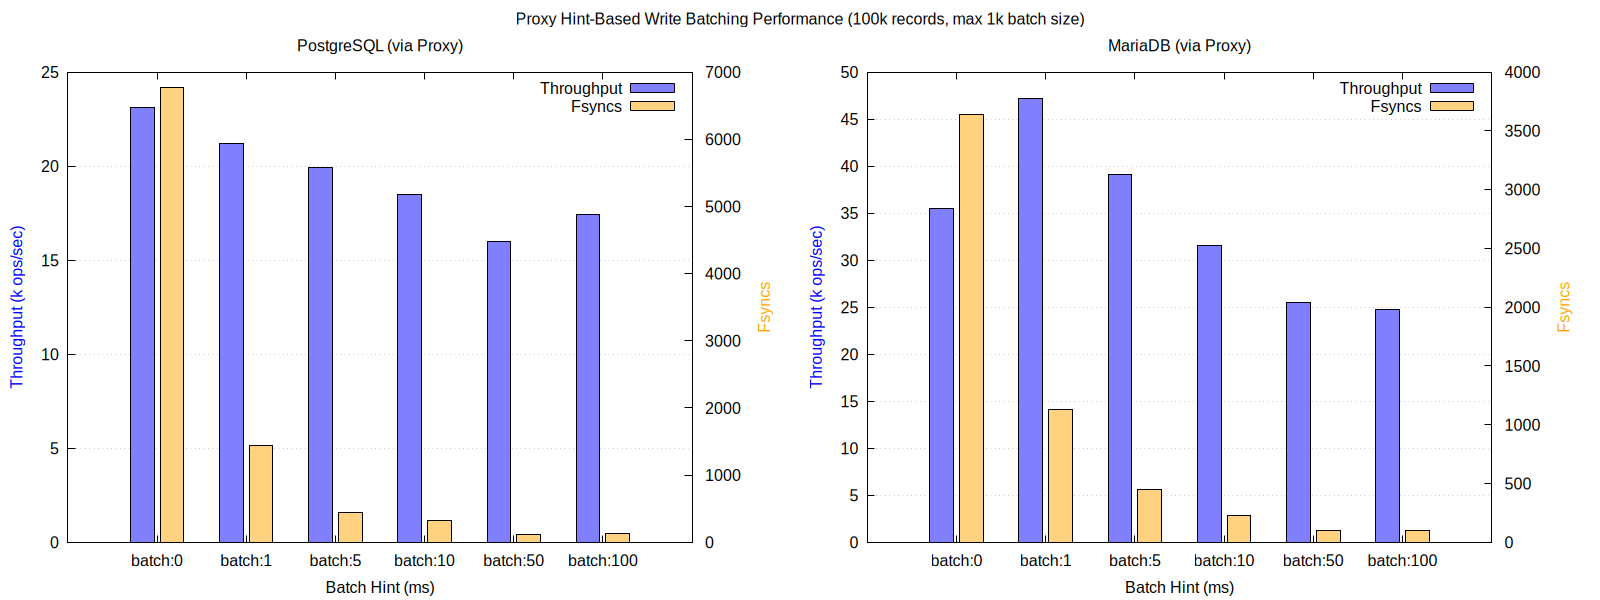
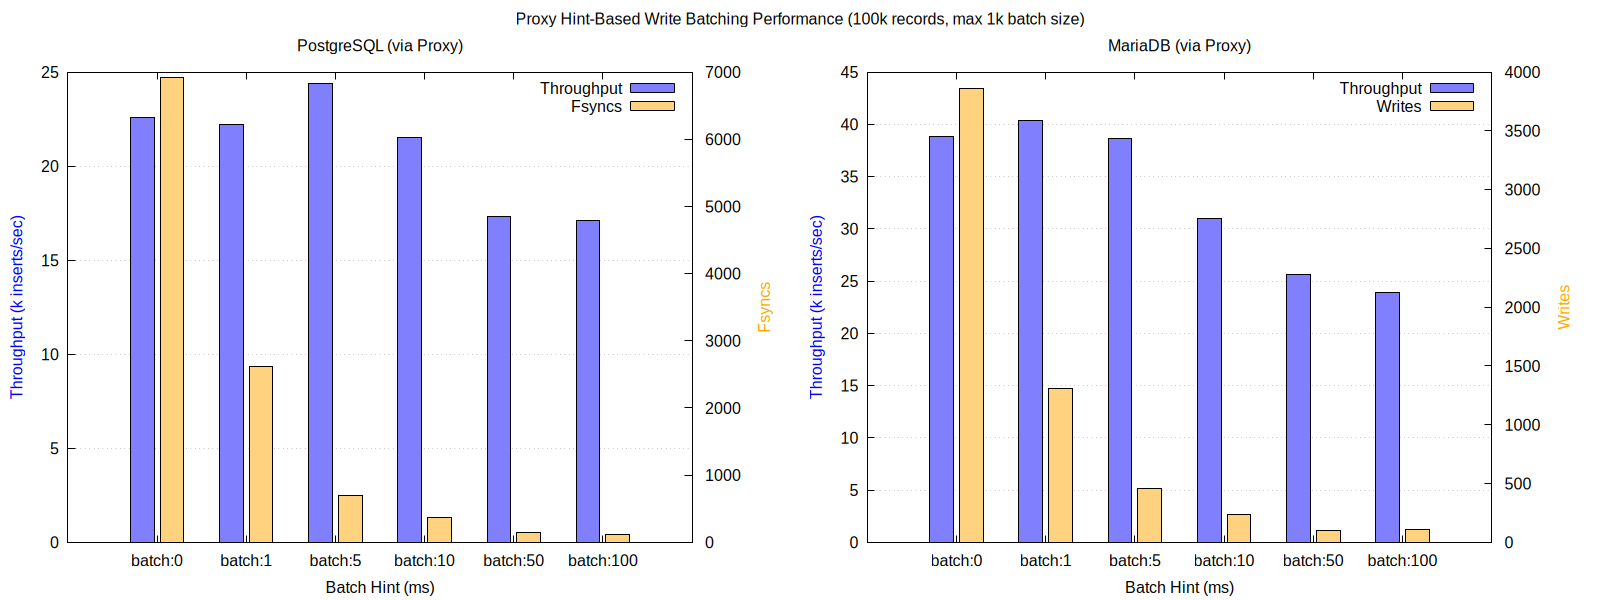
update

diff --git a/benchmarks/proxybatch/main.go b/benchmarks/proxybatch/main.go
@@ -291,12 +291,12 @@ unset title
 set title "MariaDB (via Proxy)"
 set xlabel "Batch Hint (ms)"
 set ylabel "Throughput (k inserts/sec)" textcolor rgb "blue"
-set y2label "Fsyncs" textcolor rgb "orange"
+set y2label "Writes" textcolor rgb "orange"
 set yrange [0:*]
 set y2range [0:*]
 
 plot 'bars_mysql.dat' using 2:xtic(1) title 'Throughput' axes x1y1 linecolor rgb "blue", \
-     'bars_mysql.dat' using 4 title 'Fsyncs' axes x1y2 linecolor rgb "orange"
+     'bars_mysql.dat' using 4 title 'Writes' axes x1y2 linecolor rgb "orange"
 
 unset multiplot
 `
